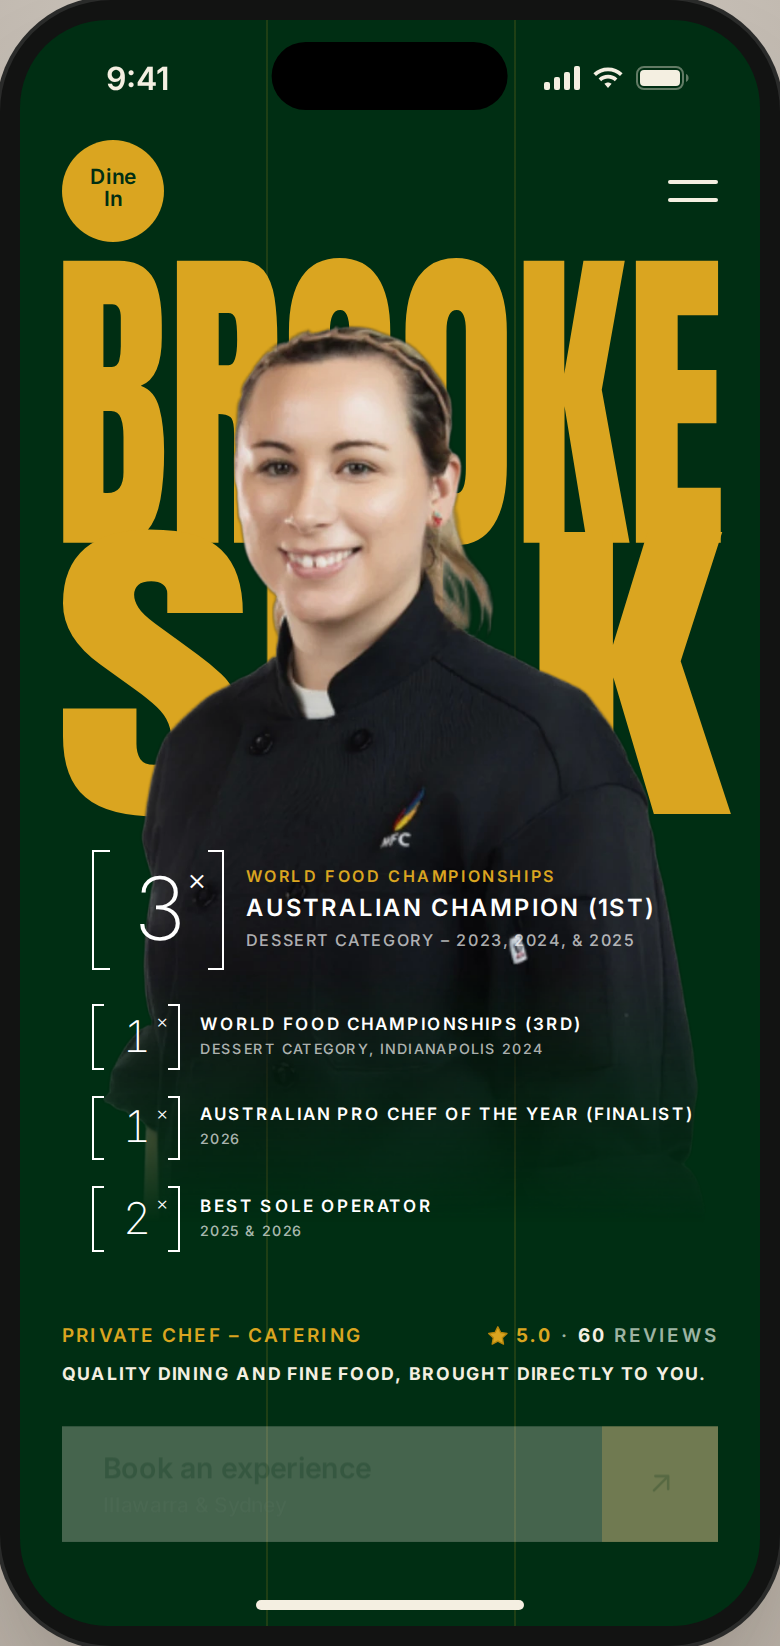
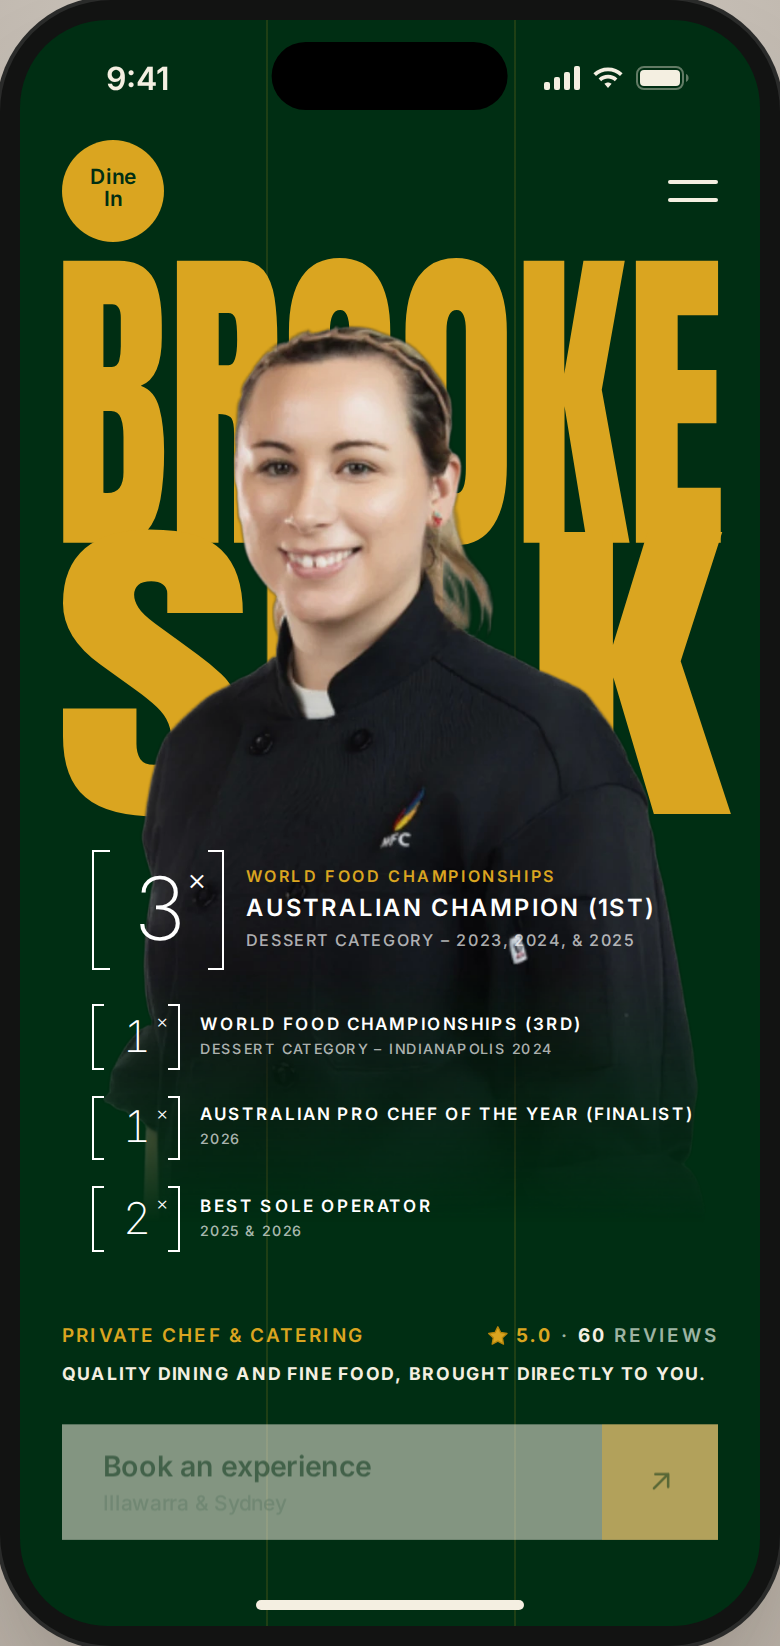
Chef card: "Private chef & catering", matching award detail lines
The meta row's role now reads "Private chef & catering". The World Food
Championships (3rd) detail line reads "Dessert category – Indianapolis
2024", matching the lead award's "Dessert category – …".

Claude-Session: https://claude.ai/code/session_01Dn2sZdZCxPbGjUxXXUAMP8

Changed region(s): [[0.0615, 0.8676, 0.9231, 0.9605], [0.4923, 0.6197, 0.7077, 0.6507], [0.3077, 0.8056, 0.4615, 0.8366]]

diff --git a/components/chef-card/index.html b/components/chef-card/index.html
@@ -139,7 +139,7 @@
           </li>
           <li class="ui-chef__stat" data-ui-chef-pause="600">
             <span class="ui-chef__stat-num"><span data-ui-chef-count>1</span><sup>×</sup></span>
-            <span class="ui-chef__stat-label"><span>World Food Championships (3rd)</span><span class="ui-chef__stat-sub">Dessert category, Indianapolis 2024</span></span>
+            <span class="ui-chef__stat-label"><span>World Food Championships (3rd)</span><span class="ui-chef__stat-sub">Dessert category – Indianapolis 2024</span></span>
           </li>
           <li class="ui-chef__stat" data-ui-chef-join>
             <span class="ui-chef__stat-num"><span data-ui-chef-count>1</span><sup>×</sup></span>
@@ -153,7 +153,7 @@
 
         <div class="ui-chef__body">
           <p class="ui-chef__meta" data-ui-chef-pause="300">
-            <span class="ui-chef__role">Private chef – Catering</span>
+            <span class="ui-chef__role">Private chef &amp; catering</span>
             <span class="ui-chef__proof"><b class="ui-chef__rating"><svg class="ui-chef__star" viewBox="0 0 24 24" aria-hidden="true" focusable="false"><path d="M12 2.8l2.85 5.8 6.4.93-4.63 4.5 1.1 6.37L12 17.4l-5.72 3l1.1-6.37-4.63-4.5 6.4-.93z"/></svg><span class="ui-chef__sr">Rated </span><span data-ui-chef-count>5.0</span></b> · <b data-ui-chef-count>60</b> reviews</span>
           </p>
           <p class="ui-chef__tagline" data-ui-chef-pause="200"><span>Quality dining and fine food, brought directly to you.</span></p>

diff --git a/components/chef-card/README.md b/components/chef-card/README.md
@@ -10,12 +10,12 @@ The Dine In edition of the [profile card](../profile-card/), for private chef Br
   - Portrait: Brooke from the head to just below the pocket, in her black chef's jacket. It fades into the green around the hem.
   - Awards: four bracketed stats stacked in white on the jacket, each with a title and a smaller detail line:
     - **Lead award**, larger and on three lines: `[3×]` World Food Championships (a small gold line), Australian Champion (1st), dessert category – 2023, 2024, & 2025
-    - `[1×]` World Food Championships (3rd): dessert category, Indianapolis 2024
+    - `[1×]` World Food Championships (3rd): dessert category – Indianapolis 2024
     - `[1×]` Australian Pro Chef of the Year (Finalist): 2026
     - `[2×]` Best Sole Operator: 2025 & 2026
 
     The bracket shows how many times, and the placing sits in brackets after the title. The lead award has a bigger bracket and title, so it stands out from the three smaller ones below it.
-  - Meta row: "Private chef – Catering" in gold on the left, and her Google rating (★ 5.0 · 60 reviews) on the right.
+  - Meta row: "Private chef & catering" in gold on the left, and her Google rating (★ 5.0 · 60 reviews) on the right.
   - Tagline: "Quality dining and fine food, brought directly to you." in tracked ivory uppercase, on one line. It's sized to fit the full width of the card, so a longer tagline needs a smaller `font-size` on `.ui-chef__tagline`.
   - Button: an ivory bar with "Book an experience" and the service area "Illawarra & Sydney" underneath it, plus a gold square with an arrow. It links to Dine In's experiences page, https://dine-in.com.au/experiences.
 - **Grid:** two faint gold hairlines divide the card into thirds, behind everything.
@@ -81,7 +81,7 @@ Plain HTML, CSS and vanilla JS, no dependencies. Classes are prefixed `ui-chef`,
       </li>
       <li class="ui-chef__stat" data-ui-chef-pause="600">
         <span class="ui-chef__stat-num"><span data-ui-chef-count>1</span><sup>×</sup></span>
-        <span class="ui-chef__stat-label"><span>World Food Championships (3rd)</span><span class="ui-chef__stat-sub">Dessert category, Indianapolis 2024</span></span>
+        <span class="ui-chef__stat-label"><span>World Food Championships (3rd)</span><span class="ui-chef__stat-sub">Dessert category – Indianapolis 2024</span></span>
       </li>
       <li class="ui-chef__stat" data-ui-chef-join>
         <span class="ui-chef__stat-num"><span data-ui-chef-count>1</span><sup>×</sup></span>
@@ -95,7 +95,7 @@ Plain HTML, CSS and vanilla JS, no dependencies. Classes are prefixed `ui-chef`,
 
     <div class="ui-chef__body">
       <p class="ui-chef__meta" data-ui-chef-pause="300">
-        <span class="ui-chef__role">Private chef – Catering</span>
+        <span class="ui-chef__role">Private chef & catering</span>
         <span class="ui-chef__proof"><b class="ui-chef__rating"><svg class="ui-chef__star" viewBox="0 0 24 24" aria-hidden="true" focusable="false"><path d="M12 2.8l2.85 5.8 6.4.93-4.63 4.5 1.1 6.37L12 17.4l-5.72 3l1.1-6.37-4.63-4.5 6.4-.93z"/></svg><span class="ui-chef__sr">Rated </span><span data-ui-chef-count>5.0</span></b> · <b data-ui-chef-count>60</b> reviews</span>
       </p>
       <p class="ui-chef__tagline" data-ui-chef-pause="200"><span>Quality dining and fine food, brought directly to you.</span></p>
